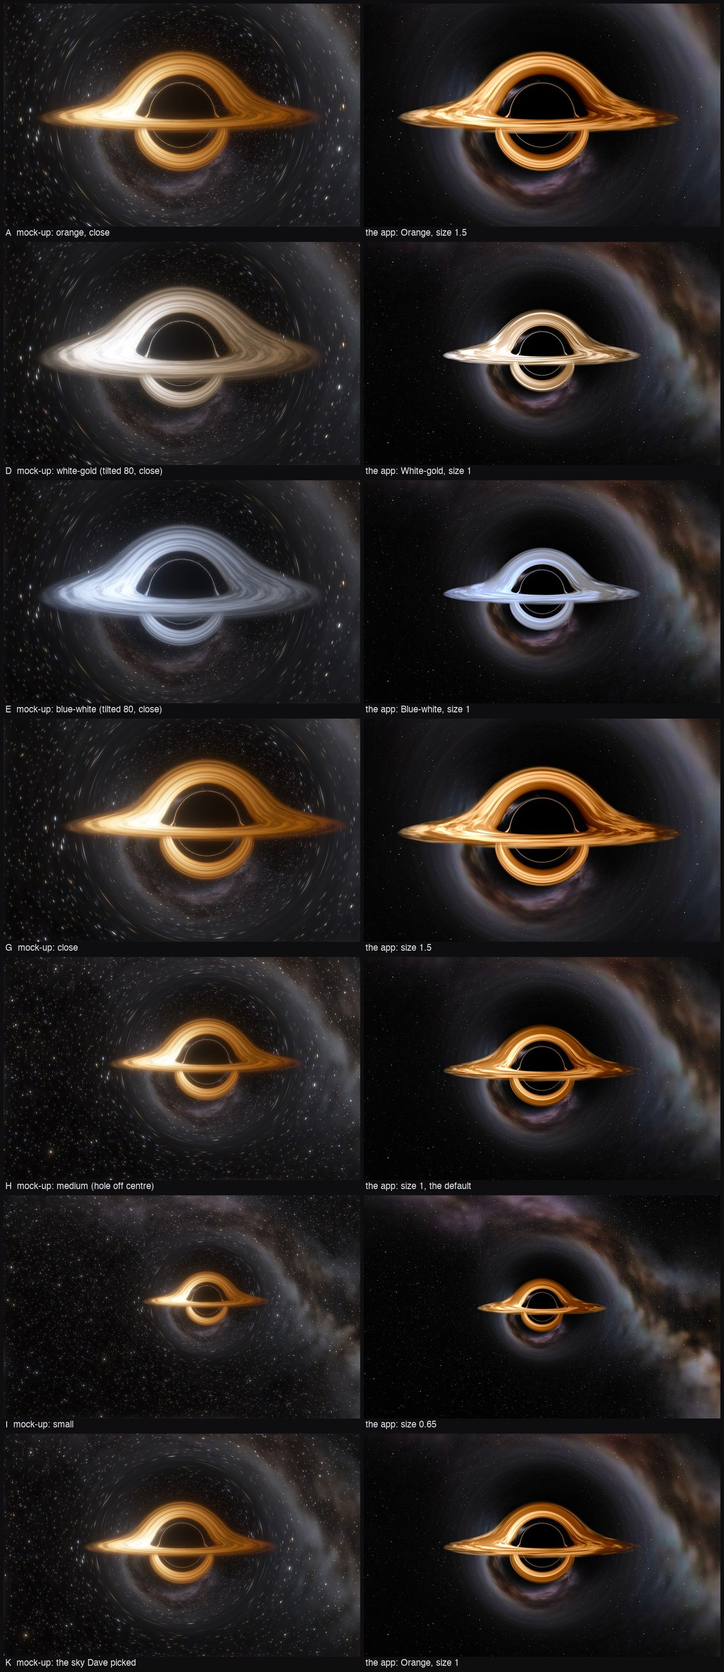
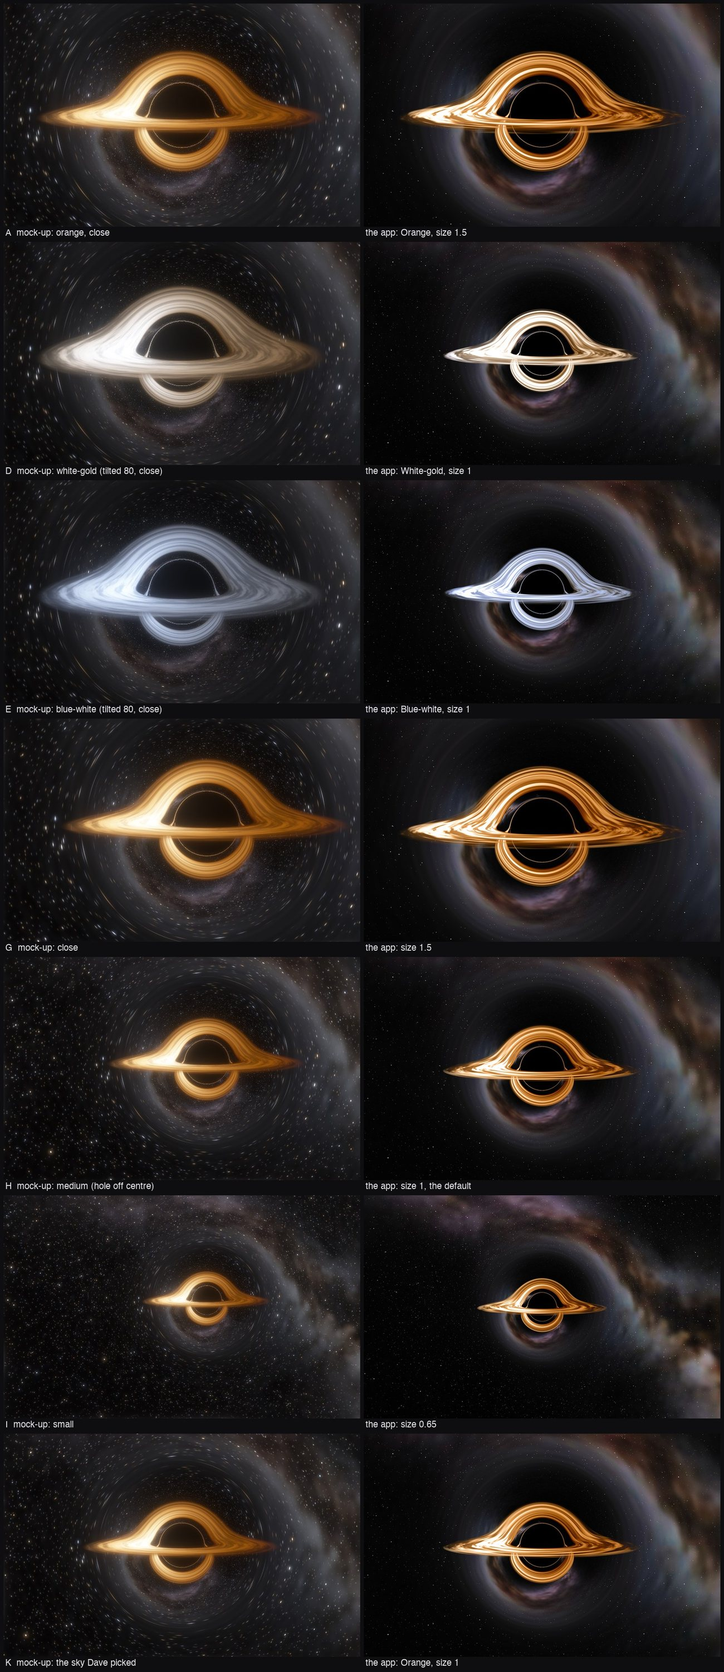
Black Hole: finer streaks, a wispy rim and a white-hot side
A second look pass, to the numbers measured against the mock-up Dave
picked (docs/black-hole.md has them). Knots of gas are born six times
as long round the disc as deep, so they are streaks from their first
frame and at the slow outer edge; lanes thin out sooner than knots, so
the rim breaks into wisps where it was feathered; and the hottest gas
burns out to white.

Against mock-up tile H the disc's brightness range and its near-white
share (5.5% against 6.3%) now match, and fine contrast is a little
over it. At 1x, two frames 5 s apart differ by 9 of 255 on average
over the disc, where the first pass was all but still; the motion test
measures that now. No shimmer at 15 or 30 fps; GPU 0.71 ms a frame.

diff --git a/Sources/Atrium/BlackHole.swift b/Sources/Atrium/BlackHole.swift
@@ -198,12 +198,13 @@ final class BlackHole: SKScene {
     }
 
     /// The gas's knots as they are born, before any shear: four octaves of noise, one in each channel from coarse
-    /// to fine, 512 across for one turn of the disc and 256 up for 0.4π in the log of the distance. The coarsest
-    /// has 10 cells round and 6 up, each next octave twice that, so a knot starts three times as long round the
-    /// disc as it is deep: with isotropic ones the streaks came out as soft blobs. It repeats both ways, with one
-    /// more row and column that are the first again, so smoothing never meets a seam.
+    /// to fine, 512 across for one turn of the disc and 512 up for 0.4π in the log of the distance. The coarsest
+    /// has 10 cells round and 12 up, each next octave twice that, so a knot is born six times as long round the
+    /// disc as it is deep, a streak already: no frame shows round blobs, and the outer edge, where shear is seven
+    /// times slower than at the inner, still reads as streaks. It repeats both ways, with one more row and column
+    /// that are the first again, so smoothing never meets a seam.
     private static let gas: SKTexture = {
-        let (w, h) = (512, 256)
+        let (w, h) = (512, 512)
         func hash(_ x: Int, _ y: Int, _ octave: Int) -> Double {
             var n = UInt32(truncatingIfNeeded: x &* 374761393 &+ y &* 668265263 &+ octave &* 2246822519)
             n = (n ^ (n >> 13)) &* 1274126177
@@ -211,7 +212,7 @@ final class BlackHole: SKScene {
         }
         var bytes = [UInt8](repeating: 0, count: (w + 1) * (h + 1) * 4)
         for y in 0...h { for x in 0...w { for octave in 0..<4 {
-            let (round, deep) = (10 << octave, 6 << octave)
+            let (round, deep) = (10 << octave, 12 << octave)
             let (u, v) = (Double(x % w) / Double(w) * Double(round), Double(y % h) / Double(h) * Double(deep))
             let (i, j) = (Int(u), Int(v))
             let (s, t) = ((u - Double(i)) * (u - Double(i)) * (3 - 2 * (u - Double(i))), (v - Double(j)) * (v - Double(j)) * (3 - 2 * (v - Double(j))))
@@ -362,7 +363,7 @@ final class BlackHole: SKScene {
 
     // Where the gas's noise is read: `round` in turns of the disc, `deep` in the log of the distance.
     vec2 gasAt(float round, float deep) {
-        return (fract(vec2(round, deep / 1.2566371)) * vec2(512.0, 256.0) + 0.5) / vec2(513.0, 257.0);
+        return (fract(vec2(round, deep / 1.2566371)) * vec2(512.0, 512.0) + 0.5) / vec2(513.0, 513.0);
     }
 
     // One generation's streaks, about ±0.3, from the noise's four octaves (coarse to fine). `cells` is how many of the
@@ -392,10 +393,11 @@ final class BlackHole: SKScene {
 
     // The light of the disc where a ray meets it, already times its opacity, and that opacity. `hue` is the gas's
     // colour there, `seen` its temperature against the hottest ring's as it reaches us, `gas` its streaks (0 to 1).
-    // The disc thins out over the last 42% of its radius, and stops short at the innermost orbit.
+    // The disc thins out over the last 42% of its radius, lanes sooner than knots, so its rim is broken into wisps and
+    // not feathered; and it stops short at the innermost orbit.
     vec4 discLight(vec3 hue, float seen, float gas, float u, float outer) {
         float fade = clamp((1.0 - outer / u) / 0.42, 0.0, 1.0);
-        float there = clamp((1.0 / u - 3.0) / 0.12, 0.0, 1.0) * clamp(fade * sqrt(fade) * (1.6 + 1.2 * gas), 0.0, 1.0);
+        float there = clamp((1.0 / u - 3.0) / 0.12, 0.0, 1.0) * clamp(fade * sqrt(fade) * (0.7 + 2.6 * gas), 0.0, 1.0);
         float glow = seen * seen;
         return vec4(hue * (glow * glow * there), there);
     }
@@ -491,9 +493,9 @@ final class BlackHole: SKScene {
                 float round = atan(on1.y, on1.x) / 6.2831853;
                 vec3 run = spin * u_age;                              // how far each generation's gas has run since birth
                 vec3 cells = 10.0 * (wide1 + 1.5 * run * grain1);
-                float pattern = dot(weight, vec3(streaks(texture2D(u_gas, gasAt(round + run.x + u_seedRound.x, deep1 + u_seedDeep.x)), max(cells.x, grain1 * 4.8)),
-                                                 streaks(texture2D(u_gas, gasAt(round + run.y + u_seedRound.y, deep1 + u_seedDeep.y)), max(cells.y, grain1 * 4.8)),
-                                                 streaks(texture2D(u_gas, gasAt(round + run.z + u_seedRound.z, deep1 + u_seedDeep.z)), max(cells.z, grain1 * 4.8))));
+                float pattern = dot(weight, vec3(streaks(texture2D(u_gas, gasAt(round + run.x + u_seedRound.x, deep1 + u_seedDeep.x)), max(cells.x, grain1 * 9.6)),
+                                                 streaks(texture2D(u_gas, gasAt(round + run.y + u_seedRound.y, deep1 + u_seedDeep.y)), max(cells.y, grain1 * 9.6)),
+                                                 streaks(texture2D(u_gas, gasAt(round + run.z + u_seedRound.z, deep1 + u_seedDeep.z)), max(cells.z, grain1 * 9.6))));
                 float gas = smoothstep(0.0, 1.0, 0.5 + pattern * 2.1 * u_streaks);
                 float seen = pow(sqrt(1.0 - 1.5 * u1) / (1.0 - sqrt(0.5 * u1 * u1 * u1) * lean / e), u_beaming) * discHeat(u1) * streakHeat(gas);
                 light = discLight(texture2D(u_heat, heatAt(seen * u_peak.x)).rgb, seen, gas, u1, u_view.w);
@@ -512,9 +514,9 @@ final class BlackHole: SKScene {
                 float round = atan(on0.y, on0.x) / 6.2831853;
                 vec3 run = spin * u_age;
                 vec3 cells = 10.0 * (wide0 + 1.5 * run * grain0);
-                float pattern = dot(weight, vec3(streaks(texture2D(u_gas, gasAt(round + run.x + u_seedRound.x, deep0 + u_seedDeep.x)), max(cells.x, grain0 * 4.8)),
-                                                 streaks(texture2D(u_gas, gasAt(round + run.y + u_seedRound.y, deep0 + u_seedDeep.y)), max(cells.y, grain0 * 4.8)),
-                                                 streaks(texture2D(u_gas, gasAt(round + run.z + u_seedRound.z, deep0 + u_seedDeep.z)), max(cells.z, grain0 * 4.8))));
+                float pattern = dot(weight, vec3(streaks(texture2D(u_gas, gasAt(round + run.x + u_seedRound.x, deep0 + u_seedDeep.x)), max(cells.x, grain0 * 9.6)),
+                                                 streaks(texture2D(u_gas, gasAt(round + run.y + u_seedRound.y, deep0 + u_seedDeep.y)), max(cells.y, grain0 * 9.6)),
+                                                 streaks(texture2D(u_gas, gasAt(round + run.z + u_seedRound.z, deep0 + u_seedDeep.z)), max(cells.z, grain0 * 9.6))));
                 float gas = smoothstep(0.0, 1.0, 0.5 + pattern * 2.1 * u_streaks);
                 float seen = pow(sqrt(1.0 - 1.5 * u0) / (1.0 - sqrt(0.5 * u0 * u0 * u0) * lean / e), u_beaming) * discHeat(u0) * streakHeat(gas);
                 vec4 front = discLight(texture2D(u_heat, heatAt(seen * u_peak.x)).rgb, seen, gas, u0, u_view.w);
@@ -564,10 +566,12 @@ final class BlackHole: SKScene {
             // Galaxy's stretch, asinh on brightness with the colour kept: it lifts the disc's faint outer part, holds
             // the bright side without bleaching it and leaves black black. Brightness here is the strongest channel,
             // not Galaxy's weighted sum, so the three disc colours expose alike; and the curve reaches full short of
-            // the brightest gas, where red clips first, then green, so it goes yellow-white as in the mock-ups.
+            // the brightest gas, where red clips first, then green, and past that it burns out to white, as the
+            // hot side did in the mock-ups (about 6% of the disc there).
             vec3 x = light.rgb * (u_brightness * u_peak.y * 8.0) + (1.0 - light.a) * behind;
             float most = max(x.r, max(x.g, x.b)) + 0.0001;
-            col = min(x * (log(20.0 * most + sqrt(400.0 * most * most + 1.0)) / 5.8) / most, 1.0); // asinh(20 most) / asinh(165)
+            float stretched = log(20.0 * most + sqrt(400.0 * most * most + 1.0)) / 5.8; // asinh(20 most) / asinh(165)
+            col = mix(min(x * stretched / most, 1.0), vec3(1.0), smoothstep(0.88, 1.2, stretched));
             // dithered against banding, but not where nothing shines: the shadow stays exactly black
             col += (hash21(v_tex_coord * u_size * 2.0) - 0.5) / 128.0 * step(0.0005, most);
         }

diff --git a/Tests/AtriumTests/BlackHoleTests.swift b/Tests/AtriumTests/BlackHoleTests.swift
@@ -254,6 +254,26 @@ func blackBodyKeepsToTheLocus(kelvin: Double, x: Double, y: Double) {
         }
     }
 
+    // Is the turning plain to see at speed 1? Two frames 5 s apart, the whole disc: before, after, and the change.
+    do {
+        let renderer = SKRenderer(device: device)
+        renderer.scene = BlackHole(size: CGSize(width: w / 2, height: h / 2))
+        let first = try frame(of: renderer, after: 1, at: 30), second = try frame(of: renderer, after: 5, at: 30)
+        let (pw, ph) = (2000, 900), (x0, y0) = (w / 2 - 1000, h / 2 - 470)
+        var strip = [UInt32](repeating: 0, count: pw / 2 * (ph / 2) * 3), changes = [Int]()
+        for y in stride(from: 0, to: ph, by: 2) { for x in stride(from: 0, to: pw, by: 2) {
+            let (a, b) = (first[(y0 + y) * w + x0 + x], second[(y0 + y) * w + x0 + x]), change = abs(luma(a) - luma(b))
+            strip[(y / 2) * (pw / 2) + x / 2] = a
+            strip[(ph / 2 + y / 2) * (pw / 2) + x / 2] = b
+            strip[(ph + y / 2) * (pw / 2) + x / 2] = UInt32(min(change * 4, 255)) * 0x010101
+            if a >> 16 & 255 > (a & 255) + 40 { changes.append(change) } // the disc: red well over blue
+        } }
+        save(strip, pw / 2, ph / 2 * 3, "5 s apart at speed 1.png")
+        print(String(format: "Black Hole moving, 5 s apart at speed 1: the disc's pixels change by %.1f of 255 on average; %.0f%% of them by 8 or more, %.0f%% by 25 or more",
+                     Double(changes.reduce(0, +)) / Double(changes.count), Double(changes.count { $0 >= 8 }) / Double(changes.count) * 100,
+                     Double(changes.count { $0 >= 25 }) / Double(changes.count) * 100))
+    }
+
     // Two lives of the streaks at speed 4: 120 units of the disc's time, 117 s, looked at every 1.5 s. A generation
     // hands over every third of a life, 19.5 s here or 13 looks, so any breathing would beat at that.
     UserDefaults.standard.set(4.0, forKey: BlackHole.speed.key)

diff --git a/docs/black-hole/compare.py b/docs/black-hole/compare.py
@@ -44,19 +44,22 @@ sheet.save(sys.argv[2], quality=88)
 print(sheet.size)
 
 
-# The look in numbers, tile H beside the app's default, both 800 x 500.
+# The look in numbers, tile H beside the app's default, both 800 x 500, as the step (b) review measured it: over the
+# pixels with luma above 0.3, the luma's percentiles, the share that is near white (every channel over 0.75) and the
+# fine contrast (the spread of luma less its 9 px box blur). Then the side coming toward us over the side going away,
+# in luma along the disc's widest row, and the luma of the sky far from the hole.
 for name, pic in [("mock-up H", tile('H')), ("the app", mine(sys.argv[1] + '/Orange-1.0.png'))]:
     a = np.asarray(pic).astype(float) / 255
     luma = a @ [0.2126, 0.7152, 0.0722]
+    lit = luma > 0.3
+    fine = luma - np.asarray(Image.fromarray((luma * 255).round().astype(np.uint8)).filter(ImageFilter.BoxBlur(4))).astype(float) / 255
     disc = (a[..., 0] > 0.25) & (a[..., 0] > a[..., 2] * 1.25)                      # the orange disc: red well over blue
-    fine = luma - np.asarray(Image.fromarray((luma * 255).astype(np.uint8)).filter(ImageFilter.BoxBlur(4))).astype(float) / 255
     ys, xs = disc.nonzero()
     far = ~disc & (np.hypot(*np.meshgrid(np.arange(800) - xs.mean(), np.arange(500) - ys.mean())) > 260)
-    # the disc's widest row, and boxes along it either side of the hole: the side coming toward us over the side going away
     row = int(ys.mean()) - 40 + int(a[int(ys.mean()) - 40:int(ys.mean()) + 40].max(axis=2).mean(axis=1).argmax())
-    lit = np.nonzero(a[row - 3:row + 4].mean(axis=0).max(axis=1) > 0.43)[0]
-    mid, half = (lit.min() + lit.max()) / 2, (lit.max() - lit.min()) / 2
+    wide = np.nonzero(a[row - 3:row + 4].mean(axis=0).max(axis=1) > 0.43)[0]
+    mid, half = (wide.min() + wide.max()) / 2, (wide.max() - wide.min()) / 2
     left = luma[row - 3:row + 4, int(mid - 0.85 * half):int(mid - 0.3 * half)].mean()
     right = luma[row - 3:row + 4, int(mid + 0.3 * half):int(mid + 0.85 * half)].mean()
-    print(f"{name}: the disc's luma at its 10th, 50th, 90th, 99th percentile {np.percentile(luma[disc], [10, 50, 90, 99]).round(2)}; "
-          f"fine contrast {fine[disc].std():.3f}; approaching over receding {left / right:.2f}; empty sky's median luma {np.median(luma[far]):.3f}")
+    print(f"{name}: luma at its 10th, 50th, 90th, 99th percentile {np.percentile(luma[lit], [10, 50, 90, 99]).round(2)}; near white {(a[lit].min(axis=1) > 0.75).mean():.1%}; "
+          f"fine contrast {fine[lit].std():.3f}; approaching over receding {left / right:.2f}; far sky's median luma {np.median(luma[far]):.3f}")

diff --git a/docs/black-hole.md b/docs/black-hole.md
@@ -50,7 +50,7 @@ Size, tilt, distance, where the hole sits and how the sky is turned are all unif
 - **Temperature:** `T(r) = T_peak · F(r)^¼`, F the Novikov–Thorne flux: with `x = √(2r)`, `F ∝ (x − √6 + (√3/2) ln((x + √3)(√6 − √3)/((x − √3)(√6 + √3)))) / (x⁵(x² − 3))`. Zero at the inner edge, so the edge fades by itself; it peaks at `r = 4.8` (9.55 M).
 - **Colour:** a black body shifted by `g` is a black body at `gT`, so colour only ever slides along the black-body line. The three colours Dave picked are three values of `T_peak`.
 - **Beaming:** in visible light, true Doppler brightening is brutal for a cool disc: at 78° the approaching side of the hottest ring is 191 times the receding side at 4,500 K, 39 times at 6,500 K, 8.6 times at 12,000 K. The mock-ups Dave chose from used the gentler all-wavelengths law (brightness ∝ `(g·T)⁴`) under a soft tone curve. NASA's own picture comes to 1.6 times in display values, about 3.3 in linear light: between the first power of `g` (2.2 times at 85°) and the second (4.7), where the full fourth power is 22. So: a Beaming knob, with its default set by eye to match the mock-ups and NASA's 1.6.
-- **Turning without winding up:** cut the disc into narrow rings, even in `ln r` (9 per e-fold in the prototype). Each ring turns rigidly at its own Kepler rate, `√(1/(2r³))`; a point takes the patterns of the two rings it lies between, mixed by where it sits. Neighbours slide past each other and nothing stretches. Tileable noise sampled in (turns, ln r) with whole repeats round the disc: 4 fetches of `CloudNoise.texture`. **As built:** not rings but three overlapping generations of the scene's own noise, each sheared by its age and reborn in turn (step b), with knots born three times as long as deep and their colour following their brightness (step e). Looked at moving twice (steps d and e).
+- **Turning without winding up:** cut the disc into narrow rings, even in `ln r` (9 per e-fold in the prototype). Each ring turns rigidly at its own Kepler rate, `√(1/(2r³))`; a point takes the patterns of the two rings it lies between, mixed by where it sits. Neighbours slide past each other and nothing stretches. Tileable noise sampled in (turns, ln r) with whole repeats round the disc: 4 fetches of `CloudNoise.texture`. **As built:** not rings but three overlapping generations of the scene's own noise, each sheared by its age and reborn in turn (step b), with knots born six times as long as deep and their colour following their brightness (step e). Looked at moving twice (steps d and e).
 - **Speed:** 1× is the inner edge round in 3 minutes (Dave). For scale, the inner orbit of Sagittarius A* takes 33 minutes (92.3 GM/c³ for 4.3 million Suns), so real time for it is 0.09×: a marked stop on the slider, not the default.
 - **Streaks:** the mock-ups' texture is a placeholder, and it is the "vinyl record" the look research warns about: even concentric bands. NASA's are sheared arcs of uneven width that fork and fade.
 
@@ -150,7 +150,7 @@ What the GPU's filter does, which nobody could know before building:
 
 **Step (b), the disc (2026-10-11).** The scene is in `allScenes` as Black Hole, hidden. What it draws:
 - **The disc's physics as planned:** Novikov-Thorne heat, the redshift `g` for every image, colour from a black-body table baked in Swift (`BlackBody`: Planck's spectrum through the CIE 1931 curves, in [Wyman, Sloan & Shirley's analytic fit](https://jcgt.org/published/0002/02/01/), to sRGB), brightness as `(g T)⁴`, the mock-up's opacity and outer fade, and both crossings of the disc composited front to back.
-- **Streaks as a flow map:** three generations of noise a third of a life apart, each read at its own Kepler turning since birth. Their weights are `(1 − cos)/3`, whose squares sum to a constant, so contrast can't pulse as generations cross. A generation lives 60 of the hole's time units (234 s at 1×), in which the inner edge laps 1.3 times and the rim 0.19. The noise is a texture of four octaves, one a channel (512 × 128 at this step, 512 × 256 since step (e)); each octave fades out as its cells shrink toward a pixel, so streaks seen edge on or wound tight melt into the glow.
+- **Streaks as a flow map:** three generations of noise a third of a life apart, each read at its own Kepler turning since birth. Their weights are `(1 − cos)/3`, whose squares sum to a constant, so contrast can't pulse as generations cross. A generation lives 60 of the hole's time units (234 s at 1×), in which the inner edge laps 1.3 times and the rim 0.19. The noise is a texture of four octaves, one a channel (512 × 128 at this step, 512 × 512 since step (e)); each octave fades out as its cells shrink toward a pixel, so streaks seen edge on or wound tight melt into the glow.
 - **A hairline at the shadow's edge.** Drawn one by one, the images of the disc thinner than a pixel came out as stray dots. Where a pixel spans more than about a radian of extra turn they give way to their average: 0.14 of the disc's light at 5 radii.
 - **Tone:** Galaxy's asinh on brightness with other constants, fitted to the mock-up's own curve. Galaxy's grey mix for highlights is left out, so red clips first, then green.
 - **Settings so far:** Disc (the three temperatures, Orange the standard), Size 0.7× to 1.5× (the field of view: 1× is 56°, the ends about 74° and 39°), Brightness, Beaming, Streaks, Speed 0 to 4×. Size and Speed never rebuild anything.
@@ -198,29 +198,31 @@ Open after step (c):
 - One or two stars close to the Einstein ring are drawn as short dashes: the correction that keeps stars round is exact only for small offsets, and right at the ring a star really is pulled into an arc. They are still.
 - **The catch:** a pixel changes by 0.02 of 255 a frame on average. The motion is calm to the point of being hard to see, because the streaks are soft. That is the look pass's job.
 
-**Step (e), the look (2026-10-11).** `black-hole/sheet4-app.jpg` puts the app's snapshots beside the mock-up tiles Dave chose from (A, D, E for the three colours; G, H, I for the sizes; K for the sky); `black-hole/compare.py` makes it from a folder of snapshots. What changed to get there:
-- **Streaks are sheared arcs now, not soft blobs.** The noise's cells start three times as long round the disc as they are deep (10 cells round and 6 up in the coarsest octave, a 512 × 256 texture), and a knot shines up to 12 times as bright as a lane between knots (it was 3). That is NASA's look: arcs of uneven width that fork where generations of different ages cross, and fade.
+**Step (e), the look (2026-10-11).** `black-hole/sheet4-app.jpg` puts the app's snapshots beside the mock-up tiles Dave chose from (A, D, E for the three colours; G, H, I for the sizes; K for the sky); `black-hole/compare.py` makes it from a folder of snapshots and prints the numbers below. What changed to get there:
+- **Streaks are fine sheared arcs with dark gaps, not soft blobs.** A knot is born six times as long round the disc as it is deep (10 cells round and 12 up in the coarsest octave of a 512 × 512 texture), so it is a streak from its first frame, at the slow outer edge too; and it shines up to 12 times as bright as a lane between knots (it was 3). Arcs fork where generations of different ages cross, and fade: NASA's look.
 - **A streak's colour follows its brightness.** Brightness goes as the fourth power of temperature, so a knot 12 times brighter than a lane is 1.9 times hotter: knots are a quarter hotter than the disc round them and whiter, lanes a third cooler and deep red. Colour still only slides along the black-body line. Without this the lanes were brown, a dim orange, where NASA's are red.
-- **Tone:** still asinh on brightness with the colour kept, but brightness is now the strongest channel, not Galaxy's weighted sum, so the three disc colours expose alike (the white and blue discs came out dull under the sum); the curve is `asinh(20·most)/asinh(165)`, which reaches full short of the brightest gas, so red clips first, then green, and the hot side goes yellow-white as in the mock-ups. Per-colour exposures: Orange 1, White-gold 2, Blue-white 1.6.
+- **The rim is broken into wisps.** The disc thins out over the last 42% of its radius, lanes sooner than knots, so streaks run out past the gaps between them. It was a smooth feather.
+- **Tone:** still asinh on brightness with the colour kept, but brightness is now the strongest channel, not Galaxy's weighted sum, so the three disc colours expose alike (the white and blue discs came out dull under the sum). The curve is `asinh(20·most)/asinh(165)`, which reaches full short of the brightest gas: red clips first, then green, and past that the gas burns out to white (mixed in from 0.88 to 1.2 of full), which gives the mock-ups' white-hot side. Per-colour exposures: Orange 1, White-gold 2, Blue-white 1.6.
 - **The shadow is exactly black.** The dither is left off wherever nothing shines; measured, no pixel inside the shadow is above 0.
-- **Stars** are a little brighter and wider (a magnitude 9 star peaks at 0.22 before the stretch; the narrowest are 0.85 px in radius).
+- **Stars** are a little brighter and wider than at step (c) (a magnitude 9 star peaks at 0.22 before the stretch; the narrowest are 0.85 px in radius). Counted at full size outside the disc, as peaks standing above the sky round them: 3,700 by 0.05 of luma, 2,400 by 0.25, 700 by 0.5. Tile K, at its own 960 px, has 3,150, 390 and 36: as many stars, each a soft blob where the app's is a point.
 - **The glow** is smoothed a little more in the bake (118 KB now), which took a faint mottling out of the empty sky.
 - **Size** runs 0.65× to 1.5×, so its small end reaches tile I's 78° field.
 
 Measured on the finished look, at full Retina size:
-- **Against tile H, both at 800 × 500** (`compare.py` prints these; mock-up / app): the disc's luma at its 10th, 50th, 90th and 99th percentile 0.22, 0.37, 0.77, 0.92 / 0.20, 0.31, 0.68, 0.93; fine contrast (luma less its 9 px blur) 0.048 / 0.077; the approaching side over the receding, in luma along the disc, 2.5 / 1.6 (NASA's is 1.6); empty sky's median luma 0.069 / 0.036.
-- **The faint arcs in the glow are the sky's own lumps stretched by the lens, not an artefact.** With the glow made a flat grey and the stars off, 99.94% of sky pixels came out within 1 of 255 of each other; the rest are where the disc's thin outer edge lies over the sky.
-- **Motion, again** (`blackHoleMoves`): at 15 fps no pixel changes by more than 2 of 255 between frames, at 30 fps by more than 1, at the thin ring, the near side and the bright end alike. Over two lives of the streaks (78 looks, 1.5 s apart at 4×) the disc's mean brightness runs 119 to 140 of 255 and its contrast 47 to 60: that is the streaks themselves coming and going over minutes. The part that keeps time with the generations handing over, which would be breathing, is ±1.9% of the mean and ±1.4% of the contrast.
+- **Against tile H, both at 800 × 500, as the step (b) review measured it** (pixels with luma over 0.3; mock-up / app): luma at its 10th, 50th, 90th and 99th percentile 0.31, 0.40, 0.85, 0.99 / 0.32, 0.39, 0.77, 1.00; near white (every channel over 0.75) 6.3% / 5.5%; fine contrast (luma less its 9 px blur) 0.089 / 0.101. All inside the targets (within about a fifth of the mock-up's; fine contrast at least 0.08). The approaching side over the receding, in luma along the disc: 2.6 / 2.2 (NASA's is 1.6). Sky far from the hole, median luma: 0.069 / 0.036; the mock-up's includes its bloom.
+- **The faint arcs in the glow are the sky's own lumps stretched by the lens, not an artefact.** With the glow made a flat grey and the stars off, 99.94% of sky pixels came out within 1 of 255 of each other; the rest are where the disc's thin outer edge lies over the sky. With a smooth ramp for a sky, no pixel differs from its neighbour by more than 3 of 255 (the dither alone is 2) and the slope never changes by more than 0.44 a pixel: table B's entries don't show as steps.
+- **Motion, again** (`blackHoleMoves`, on this look): at 15 fps no pixel changes by more than 3 of 255 between frames, at 30 fps by more than 1, at the thin ring, the near side and the bright end alike. At 1×, two frames 5 s apart differ by 8.4 of 255 on average over the disc, 41% of its pixels by 8 or more: the turning shows. Over two lives of the streaks (78 looks, 1.5 s apart at 4×) the disc's mean brightness runs 115 to 128 of 255 and its contrast 49 to 59: that is the streaks themselves coming and going over minutes. The part that keeps time with the generations handing over, which would be breathing, is ±0.7% of the mean and ±0.9% of the contrast.
 - **Stars still land where the lens puts them:** 568 of 568 found, 0.04 px off at the median, 0.16 px at the 90th percentile.
-- **Cost, release build, at sizes 1.5×, 1× and 0.65×:** GPU 0.75–0.77 ms a frame, CPU 0.5–0.6 ms (the machine was busy with other builds; Galaxy in the same run measured 0.58 and 1.91). Six textures, 13 other uniforms.
+- **Cost, release build, at sizes 1.5×, 1× and 0.65×:** GPU 0.70–0.74 ms a frame; CPU 0.4–0.8 ms on a machine busy with other builds (Galaxy, in one of the same runs, 0.58 and 1.91). Six textures, 13 other uniforms.
 - **Tests, seven:** the six above pass, and `blackHoleMoves` does nothing without its variable.
 
 ### Still open
-- **Dave hasn't seen it.** Everything in step (e) was judged against the mock-up tiles and NASA's frames by the agent that built it. Streaks at 0.7 are livelier than "calm" may want; the slider is there.
+- **Dave hasn't seen it.** Everything in step (e) was judged against the mock-up tiles, NASA's frames and the review's numbers by the agent that built it. To meet those numbers the disc is crisp and has a white-hot side; "calm, soft, dim" may want Streaks below its 0.7 and Brightness below 1. The sliders are there.
 - **Stars read finer than tile K's.** They are points about 1.5 px across at Retina, the brightest a soft 8, where the mock-up's were blobs and dashes, so at a glance the sky looks emptier, though it holds the same 111,000 stars. The Stars slider goes to 2.
-- **The disc's mean brightness wanders ±8% over minutes** as knots come and go (±12% in a second run from another random start: 108 to 138 of 255). It doesn't beat, but nobody has watched it for an hour.
+- **The disc's mean brightness wanders about ±5% over minutes** as knots come and go. It doesn't beat, but nobody has watched it for an hour.
+- **Whether the turning is "plain to see" at 1×** is a number here (above), not yet somebody watching the desktop.
 - **One or two stars at the Einstein ring are short dashes**, as in the first motion check.
-- **Not done:** the Settings page's own screenshot and preview (`SETTINGS_SHOT` can't open a hidden wallpaper's page), an icon chosen on purpose (it has `circle.circle.fill`), the README and the site, and the baked halo (f), which the look didn't seem to need.
+- **Not done:** the Settings page's own screenshot and preview (`SETTINGS_SHOT` can't open a hidden wallpaper's page), an icon chosen on purpose (it has `circle.circle.fill`), the README's own entry and the site, and the baked halo (f), which the look didn't seem to need.
 
 ## Mock-ups
 In `docs/black-hole/`. They were rendered by `bh.py`, a brute-force tracer written for the purpose: every ray is integrated (`d²x/dλ² = −1.5 h² x / r⁵`, which gives a light ray's exact path), so the bending in them is real, not painted. Its disc texture, bloom and tone curve are stand-ins.
